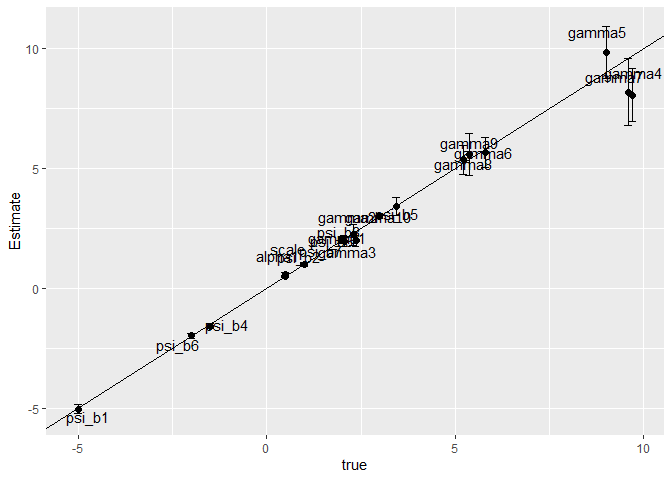
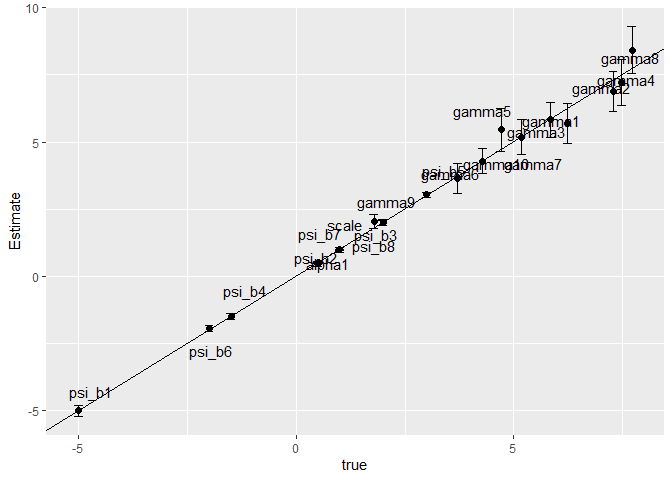
update readme

diff --git a/README.md b/README.md
@@ -104,15 +104,15 @@ mdcev_est <- mdcev(~ b1 + b2 + b3 + b4 + b5 + b6 + b7 + b8-1,
                    std_errors = "deltamethod",
                    algorithm = "MLE")
 #> Using MLE to estimate MDCEV
-#> Chain 1: Initial log joint probability = -51663.6
+#> Chain 1: Initial log joint probability = -62156.4
 #> Chain 1:     Iter      log prob        ||dx||      ||grad||       alpha      alpha0  # evals  Notes 
-#> Chain 1:       19      -38808.9       1.74731       438.401           1           1       24   
+#> Chain 1:       19      -52830.5      0.991886       1907.31           1           1       23   
 #> Chain 1:     Iter      log prob        ||dx||      ||grad||       alpha      alpha0  # evals  Notes 
-#> Chain 1:       39      -38330.4       0.27699       72.9864           1           1       49   
+#> Chain 1:       39      -52332.6     0.0546787       99.2564           1           1       45   
 #> Chain 1:     Iter      log prob        ||dx||      ||grad||       alpha      alpha0  # evals  Notes 
-#> Chain 1:       59      -38325.9    0.00620657       9.51927           1           1       74   
+#> Chain 1:       59      -52321.3   0.000845003       2.59614           1           1       67   
 #> Chain 1:     Iter      log prob        ||dx||      ||grad||       alpha      alpha0  # evals  Notes 
-#> Chain 1:       76      -38325.8    0.00207364      0.389301           1           1       94   
+#> Chain 1:       71      -52321.3   0.000377997      0.663885           1           1       80   
 #> Chain 1: Optimization terminated normally: 
 #> Chain 1:   Convergence detected: relative gradient magnitude is below tolerance
 ```
@@ -128,39 +128,39 @@ summary(mdcev_est)
 #> Number of individuals            : 2000
 #> Number of non-numeraire alts     : 10
 #> Estimated parameters             : 20
-#> LL                               : -38325.79
-#> AIC                              : 76691.59
-#> BIC                              : 76803.61
+#> LL                               : -52321.29
+#> AIC                              : 104682.6
+#> BIC                              : 104794.6
 #> Standard errors calculated using : Delta method
 #> Exit of MLE                      : successful convergence
-#> Time taken (hh:mm:ss)            : 00:00:2.59
+#> Time taken (hh:mm:ss)            : 00:00:1.9
 #> 
 #> Average consumption of non-numeraire alternatives:
 #>      1      2      3      4      5      6      7      8      9     10 
-#> 169.86  11.77   0.76  40.80   4.12   4.92  52.11   6.63   7.22   1.07 
+#>  11.68  32.93  27.80  25.61   7.96   4.66 132.25  86.05   5.34  19.15 
 #> 
 #> Parameter estimates --------------------------------  
 #>         Estimate Std.err z.stat
-#> psi_b1    -4.804   0.098 -49.02
-#> psi_b2     0.367   0.116   3.16
-#> psi_b3     1.899   0.086  22.09
-#> psi_b4    -1.494   0.055 -27.16
-#> psi_b5     3.010   0.051  59.02
-#> psi_b6    -1.992   0.059 -33.76
-#> psi_b7     0.994   0.043  23.12
-#> psi_b8     1.976   0.045  43.91
-#> gamma1     8.858   0.643  13.78
-#> gamma2     9.318   0.687  13.56
-#> gamma3     2.987   0.467   6.40
-#> gamma4     5.570   0.298  18.69
-#> gamma5     9.772   1.067   9.16
-#> gamma6     1.660   0.108  15.37
-#> gamma7     5.289   0.336  15.74
-#> gamma8     6.580   0.569  11.56
-#> gamma9     4.784   0.357  13.40
-#> gamma10    3.378   0.448   7.54
-#> alpha1     0.497   0.008  62.16
-#> scale      0.969   0.013  74.57
+#> psi_b1    -5.012   0.098 -51.14
+#> psi_b2     0.466   0.049   9.50
+#> psi_b3     1.991   0.060  33.19
+#> psi_b4    -1.510   0.055 -27.45
+#> psi_b5     3.039   0.048  63.30
+#> psi_b6    -1.952   0.058 -33.65
+#> psi_b7     0.982   0.041  23.95
+#> psi_b8     1.990   0.042  47.38
+#> gamma1     5.686   0.386  14.73
+#> gamma2     6.886   0.373  18.46
+#> gamma3     5.822   0.329  17.70
+#> gamma4     7.217   0.431  16.75
+#> gamma5     5.453   0.407  13.40
+#> gamma6     3.648   0.284  12.85
+#> gamma7     5.182   0.339  15.29
+#> gamma8     8.426   0.442  19.06
+#> gamma9     2.030   0.132  15.38
+#> gamma10    4.289   0.241  17.80
+#> alpha1     0.502   0.007  71.75
+#> scale      0.988   0.012  82.36
 #> Note: All non-numeraire alpha's fixed to 0.
 ```
 
@@ -175,26 +175,26 @@ coefs <- as_tibble(sim.data$parms_true) %>%
 
 head(coefs, 200)
 #>           parms      true Estimate Std.err z.stat    cl_lo    cl_hi
-#> psi_b1   psi_b1 -5.000000   -4.804   0.098 -49.02 -4.99608 -4.61192
-#> psi_b2   psi_b2  0.500000    0.367   0.116   3.16  0.13964  0.59436
-#> psi_b3   psi_b3  2.000000    1.899   0.086  22.09  1.73044  2.06756
-#> psi_b4   psi_b4 -1.500000   -1.494   0.055 -27.16 -1.60180 -1.38620
-#> psi_b5   psi_b5  3.000000    3.010   0.051  59.02  2.91004  3.10996
-#> psi_b6   psi_b6 -2.000000   -1.992   0.059 -33.76 -2.10764 -1.87636
-#> psi_b7   psi_b7  1.000000    0.994   0.043  23.12  0.90972  1.07828
-#> psi_b8   psi_b8  2.000000    1.976   0.045  43.91  1.88780  2.06420
-#> gamma1   gamma1  8.390458    8.858   0.643  13.78  7.59772 10.11828
-#> gamma2   gamma2  8.583333    9.318   0.687  13.56  7.97148 10.66452
-#> gamma3   gamma3  3.290057    2.987   0.467   6.40  2.07168  3.90232
-#> gamma4   gamma4  4.803377    5.570   0.298  18.69  4.98592  6.15408
-#> gamma5   gamma5  9.502540    9.772   1.067   9.16  7.68068 11.86332
-#> gamma6   gamma6  1.576536    1.660   0.108  15.37  1.44832  1.87168
-#> gamma7   gamma7  5.370277    5.289   0.336  15.74  4.63044  5.94756
-#> gamma8   gamma8  6.842473    6.580   0.569  11.56  5.46476  7.69524
-#> gamma9   gamma9  4.657651    4.784   0.357  13.40  4.08428  5.48372
-#> gamma10 gamma10  2.686770    3.378   0.448   7.54  2.49992  4.25608
-#> alpha1   alpha1  0.500000    0.497   0.008  62.16  0.48132  0.51268
-#> scale     scale  1.000000    0.969   0.013  74.57  0.94352  0.99448
+#> psi_b1   psi_b1 -5.000000   -5.012   0.098 -51.14 -5.20408 -4.81992
+#> psi_b2   psi_b2  0.500000    0.466   0.049   9.50  0.36996  0.56204
+#> psi_b3   psi_b3  2.000000    1.991   0.060  33.19  1.87340  2.10860
+#> psi_b4   psi_b4 -1.500000   -1.510   0.055 -27.45 -1.61780 -1.40220
+#> psi_b5   psi_b5  3.000000    3.039   0.048  63.30  2.94492  3.13308
+#> psi_b6   psi_b6 -2.000000   -1.952   0.058 -33.65 -2.06568 -1.83832
+#> psi_b7   psi_b7  1.000000    0.982   0.041  23.95  0.90164  1.06236
+#> psi_b8   psi_b8  2.000000    1.990   0.042  47.38  1.90768  2.07232
+#> gamma1   gamma1  6.240237    5.686   0.386  14.73  4.92944  6.44256
+#> gamma2   gamma2  7.291805    6.886   0.373  18.46  6.15492  7.61708
+#> gamma3   gamma3  5.849051    5.822   0.329  17.70  5.17716  6.46684
+#> gamma4   gamma4  7.488369    7.217   0.431  16.75  6.37224  8.06176
+#> gamma5   gamma5  4.711628    5.453   0.407  13.40  4.65528  6.25072
+#> gamma6   gamma6  3.709536    3.648   0.284  12.85  3.09136  4.20464
+#> gamma7   gamma7  5.188255    5.182   0.339  15.29  4.51756  5.84644
+#> gamma8   gamma8  7.724965    8.426   0.442  19.06  7.55968  9.29232
+#> gamma9   gamma9  1.789074    2.030   0.132  15.38  1.77128  2.28872
+#> gamma10 gamma10  4.284462    4.289   0.241  17.80  3.81664  4.76136
+#> alpha1   alpha1  0.500000    0.502   0.007  71.75  0.48828  0.51572
+#> scale     scale  1.000000    0.988   0.012  82.36  0.96448  1.01152
 ```
 
 Compare outputs using a figure
@@ -235,11 +235,11 @@ wtp <- mdcev.sim(df_sim$df_indiv,
 #> Using general approach to simulation
 #> Simulating welfare...
 #> 
-#> 6.00e+04simulations finished in0.35minutes.(2872per second)
+#> 6.00e+04simulations finished in0.44minutes.(2294per second)
 summary(wtp)
 #> # A tibble: 2 x 5
-#>   policy      mean std.dev `ci_lo2.5%` `ci_hi97.5%`
-#> * <chr>      <dbl>   <dbl>       <dbl>        <dbl>
-#> 1 policy1 7.13e-11      NA    7.13e-11     7.13e-11
-#> 2 policy2 7.13e-11      NA    7.13e-11     7.13e-11
+#>   policy       mean std.dev `ci_lo2.5%` `ci_hi97.5%`
+#> * <chr>       <dbl>   <dbl>       <dbl>        <dbl>
+#> 1 policy1 -5.76e-12      NA   -5.76e-12    -5.76e-12
+#> 2 policy2 -5.76e-12      NA   -5.76e-12    -5.76e-12
 ```
